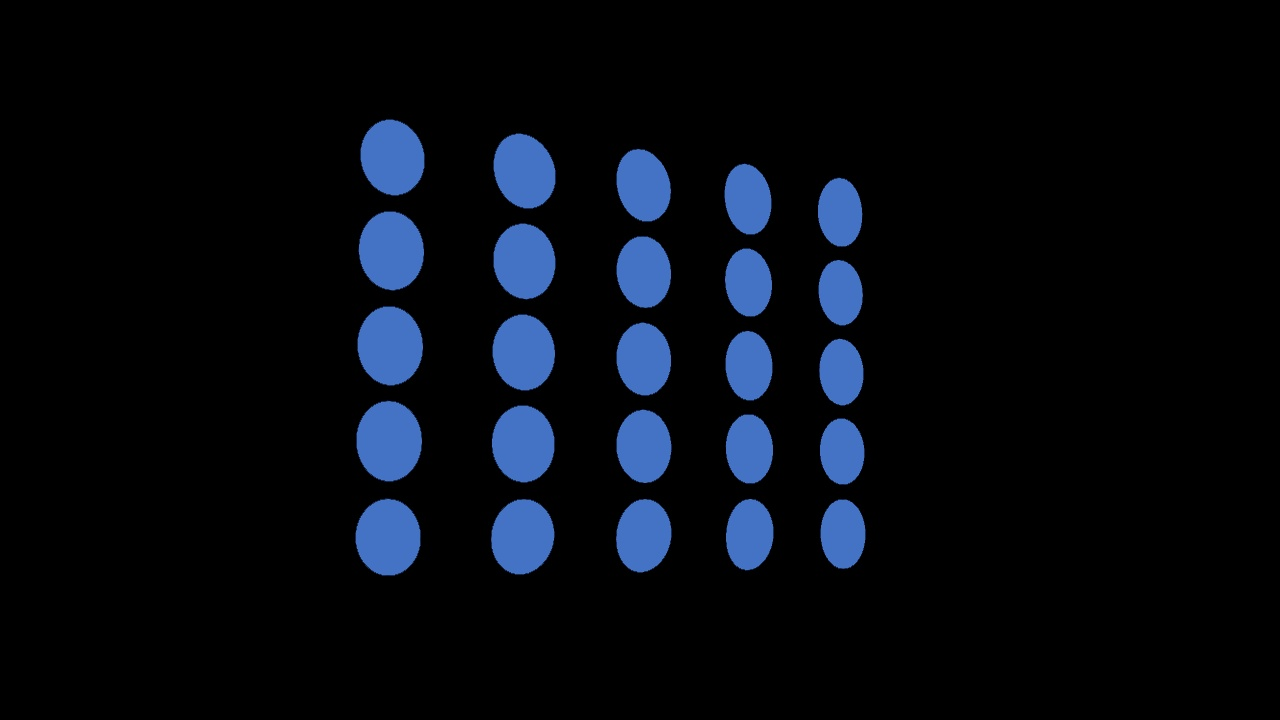
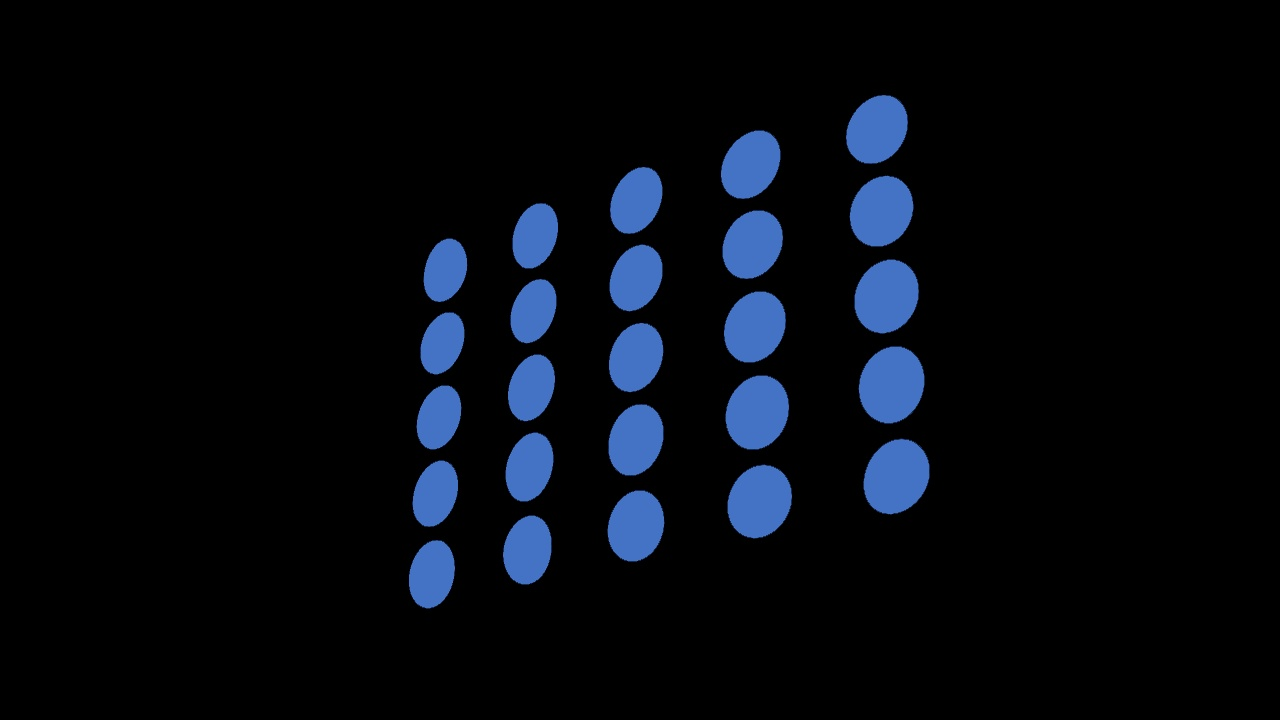
2024/5/19 更新了全部 目前逻辑是main-RC/PF/FF/PS 达到了grid，机器人求解位置的效果，与unity打通

diff --git a/RobotControl.py b/RobotControl.py
@@ -29,7 +29,23 @@ class Moblierobot:
         #最后拼接
         matrix_with_extra_column = np.hstack((subm1, subm2))
         matrix_with_extra_row = np.vstack((matrix_with_extra_column, subm3))
+        # self.robot.qlim = np.array[
+        #     [-np.pi / 2, np.pi / 2],  # 第1个关节的角度范围
+        #     [-np.pi / 2, np.pi / 2],  # 第2个关节的角度范围
+        #     [-np.pi / 2, np.pi / 2],  # 第3个关节的角度范围
+        #     [-np.pi / 2, np.pi / 2],  # 第3个关节的角度范围
+        #     [-np.pi / 2, np.pi / 2],  # 第3个关节的角度范围
+        #     [-np.pi / 2, np.pi / 2],  # 第3个关节的角度范围
+        # ]
+        self.robot.links[0].qlim = [-1 / 2, 1 / 2]
+        self.robot.links[1].qlim = [-1 / 2, 1 / 2]
+        self.robot.links[2].qlim = [-1 / 2, 1 / 2]
+        self.robot.links[3].qlim = [-1 / 2, 1 / 2]
+        self.robot.links[4].qlim = [-1 / 2, 1 / 2]
+        self.robot.links[5].qlim = [-1 / 2, 1 / 2]
+
         endjoint = self.robot.ikine_LM(matrix_with_extra_row, q0 = self.startjoint).q
+
         answer = self.robot.ikine_LM(matrix_with_extra_row, q0 = self.startjoint).success
         return endjoint, answer
 

diff --git a/EX1_robot.py b/EX1_robot.py
@@ -1,0 +1,28 @@
+import ProjectionScene as scene
+import Model_mengpi as gm
+import visualization as vl
+import ProjectionFun as pf
+import RobotControl as rc
+import FieldFun as fs
+import matplotlib.pyplot as plt
+import numpy as np
+import cv2
+import math
+import roboticstoolbox as rtb
+from matplotlib.patches import Circle
+# 场景初始化
+
+# projector初始化，投影仪初始化方向默认以[0, 1, 0]为起始方向，便于计算，影响平面的生成
+# set aspect = 9 / 16, ratio = 2.92, vector [0, 1, 0], width = 0.128, height = 0.072
+projector = scene.Projector(aspect=9 / 16, ratio=1.37, vector = [0, 1, 0], width= 0.128, height=0.072)
+projector.transform([0,0,0,0,0,0])
+# observer 初始化
+observer = scene.Observer()
+cobot = rc.Moblierobot()
+temp_p = [1,-2.5, 0.7, -15, -15, 0]
+move, joint, jscore, maxcore, ans = cobot.s3_movetrans(temp_p)
+print (move, joint, jscore, maxcore, ans)
+outjoint = joint*180/3.14
+print (move)
+print ('joint for unity:',-(outjoint[0]+180),outjoint[1]+90,outjoint[2],outjoint[3]+90,-outjoint[4],outjoint[5])
+print ('position for unity:',temp_p[0]-move[0],temp_p[1]-move[1],temp_p[2],0,temp_p[4],0)

diff --git a/ProjectionFun.py b/ProjectionFun.py
@@ -350,14 +350,18 @@ def interacted_triang(point, normal, center_point, vertices, triangles, spheres)
             reserved_normal = -reserved_normal
     return reserved_point, reserved_normal
 
+
+
 def show_warped(img, warped, c_src, c_dst):
     fig, axs = plt.subplots(1, 2, figsize=(16, 8))
     axs[0].axis('off')
     axs[1].axis('off')
     axs[0].imshow(img[..., ::-1], origin='upper')
-    axs[0].scatter(c_src[:, 0] * img.shape[1], c_src[:, 1] * img.shape[0], marker='+', color='black')
+    axs[0].scatter(c_src[:, 0] * img.shape[1], c_src[:, 1] * img.shape[0], marker='+', color='white')
+    axs[0].set_facecolor('white')  # Set the background color to white
     axs[1].imshow(warped[..., ::-1], origin='upper')
-    axs[1].scatter(c_dst[:, 0] * warped.shape[1], c_dst[:, 1] * warped.shape[0], marker='+', color='black')
+    axs[1].scatter(c_dst[:, 0] * warped.shape[1], c_dst[:, 1] * warped.shape[0], marker='+', color='white')
+    axs[1].set_facecolor('white')  # Set the background color to white
     plt.show()
 
 def warp_image_cv(img, c_src, c_dst, dshape=None):

diff --git a/plot_projection.py b/plot_projection.py
@@ -1,6 +1,22 @@
-import numpy as np
-import roboticstoolbox as rtb
-import matplotlib.pyplot as plt
-robot = rtb.models.URDF.UR5()
-q = np.array([1, 2, 3, 4, 5, 6])
-T = robot.fkine(q)
+from roboticstoolbox import SE3
+
+# 创建一个SE3刚体变换
+T = SE3.Rx(0.5) * SE3(1, 2, 3)
+
+# 获取旋转矩阵和平移向量
+R = T.R
+t = T.t
+
+# 打印刚体变换的旋转矩阵和平移向量
+print("Rotation matrix:")
+print(R)
+print("Translation vector:")
+print(t)
+
+# 利用刚体变换进行点坐标变换
+p = [1, 0, 0]
+p_transformed = T * p
+
+# 打印变换后的点坐标
+print("Transformed point:")
+print(p_transformed)

diff --git a/Model_mengpi.py b/Model_mengpi.py
@@ -1,7 +1,7 @@
 import numpy as np
 import matplotlib.pyplot as plt
 from scipy.spatial import KDTree
-
+import math
 
 
 class SamplingMengpi:
@@ -21,7 +21,7 @@ class SamplingMengpi:
         angle_step_rad = np.deg2rad(angle_step)
 
         # 生成角度的数组
-        angle_set = np.arange(angle_start_rad, angle_end_rad + angle_step_rad, angle_step_rad)
+        angle_set = np.arange(angle_start_rad , angle_end_rad + angle_step_rad, angle_step_rad)
 
         # 计算每个角度对应的x坐标和y坐标
         x = self.center[0] + self.radius * np.cos(angle_set)

diff --git a/FieldFun.py b/FieldFun.py
@@ -35,8 +35,8 @@ def block2D_detection(points, pos, radius, center):
     pos2D = pos[[0, 1]]
     center = np.array(center)
     center2D = center[[0,1]]
-    lines = center2D - points2D
-    line_vectors = [-lines[:,1], lines[:,0]]
+    lines = pos2D - center2D
+    line_vectors = [-lines[1], lines[0]]
     line_vectors = np.array(line_vectors).T
     point_vectors = pos2D - points2D
     point_vectors = np.array(point_vectors)
